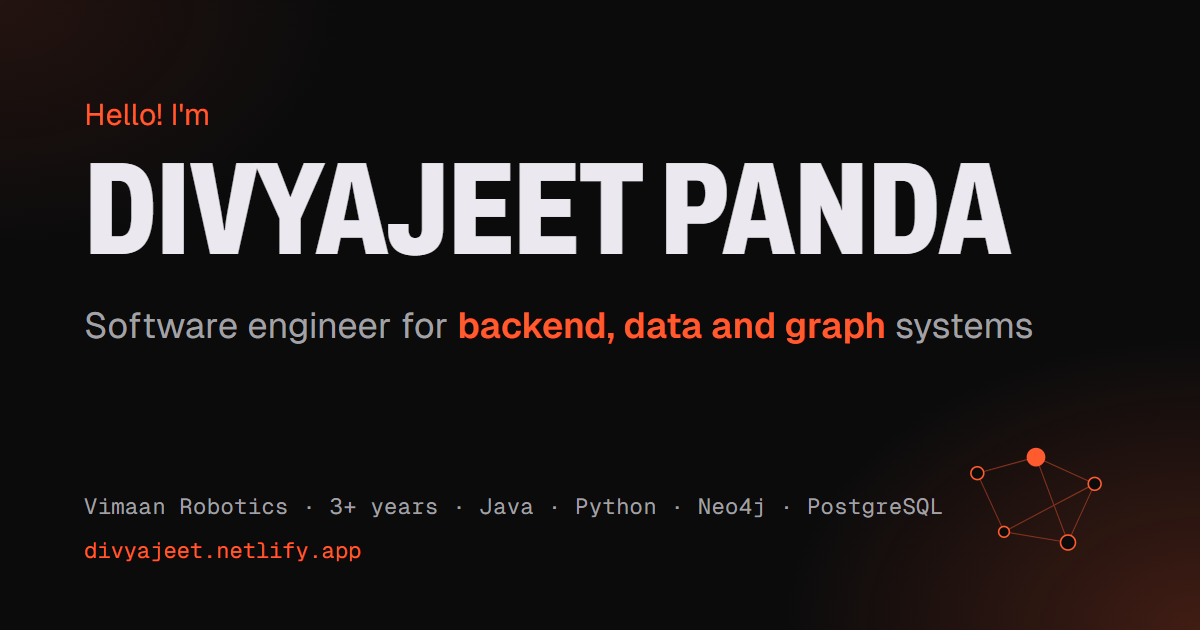
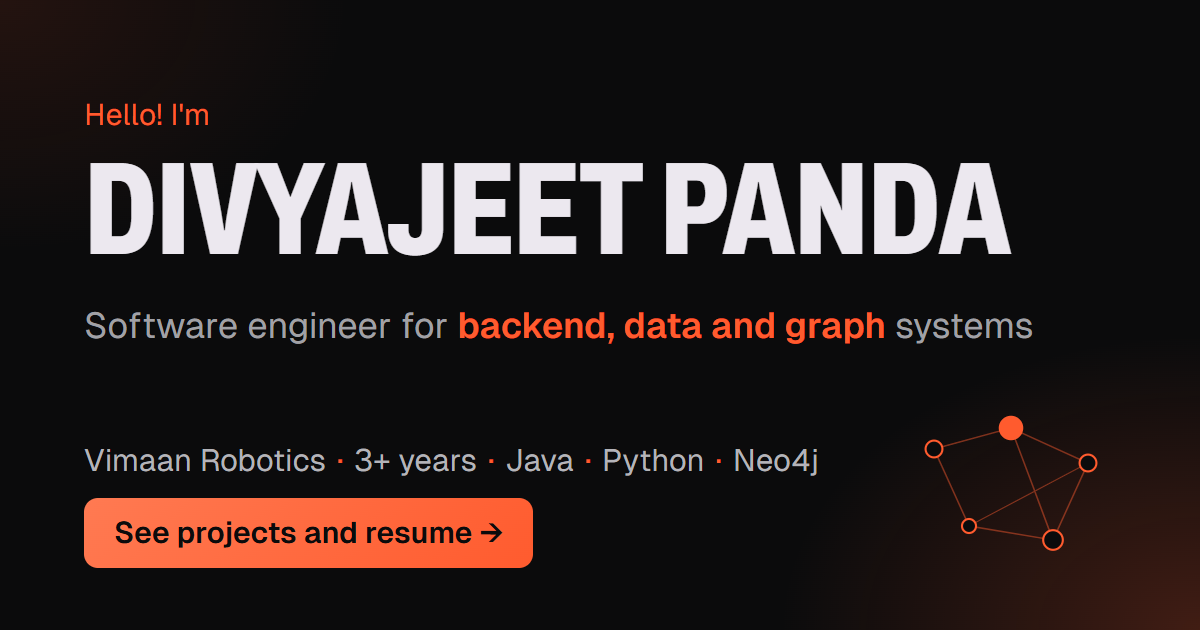
fix: sharpen link preview and shorten descriptions
- Preview image: larger detail line and a "See projects and resume" call to action in place of the small URL, so it reads at feed size
- Share description cut to 109 characters and search description to 154, so neither gets truncated

diff --git a/index.html b/index.html
@@ -8,7 +8,7 @@
 
     <!-- SEO & Meta -->
     <meta name="description"
-        content="Portfolio of Divyajeet Panda, a Software Engineer with 3+ years in backend services, data systems and warehouse automation, working with Java/Spring Boot, Python, Neo4j and PostgreSQL.">
+        content="Divyajeet Panda is a Software Engineer with 3+ years in backend services, data systems and warehouse automation, using Java, Python, Neo4j and PostgreSQL.">
     <meta name="author" content="Divyajeet Panda">
     <meta name="theme-color" content="#0b0b0c">
     <meta name="color-scheme" content="dark">
@@ -20,7 +20,7 @@
     <meta property="og:url" content="https://divyajeet.netlify.app/">
     <meta property="og:title" content="Divyajeet Panda | Software Engineer">
     <meta property="og:description"
-        content="Portfolio of Divyajeet Panda, a Software Engineer with 3+ years in backend services, data systems and warehouse automation, working with Java/Spring Boot, Python, Neo4j and PostgreSQL.">
+        content="Software Engineer, 3+ years building backend, data and graph systems with Java, Python, Neo4j and PostgreSQL.">
     <meta property="og:image" content="https://divyajeet.netlify.app/img/og-card.png">
     <meta property="og:image:width" content="1200">
     <meta property="og:image:height" content="630">
@@ -30,7 +30,7 @@
     <meta name="twitter:card" content="summary_large_image">
     <meta name="twitter:title" content="Divyajeet Panda | Software Engineer">
     <meta name="twitter:description"
-        content="Portfolio of Divyajeet Panda, a Software Engineer with 3+ years in backend services, data systems and warehouse automation, working with Java/Spring Boot, Python, Neo4j and PostgreSQL.">
+        content="Software Engineer, 3+ years building backend, data and graph systems with Java, Python, Neo4j and PostgreSQL.">
     <meta name="twitter:image" content="https://divyajeet.netlify.app/img/og-card.png">
 
     <!-- Structured data for search engines -->
